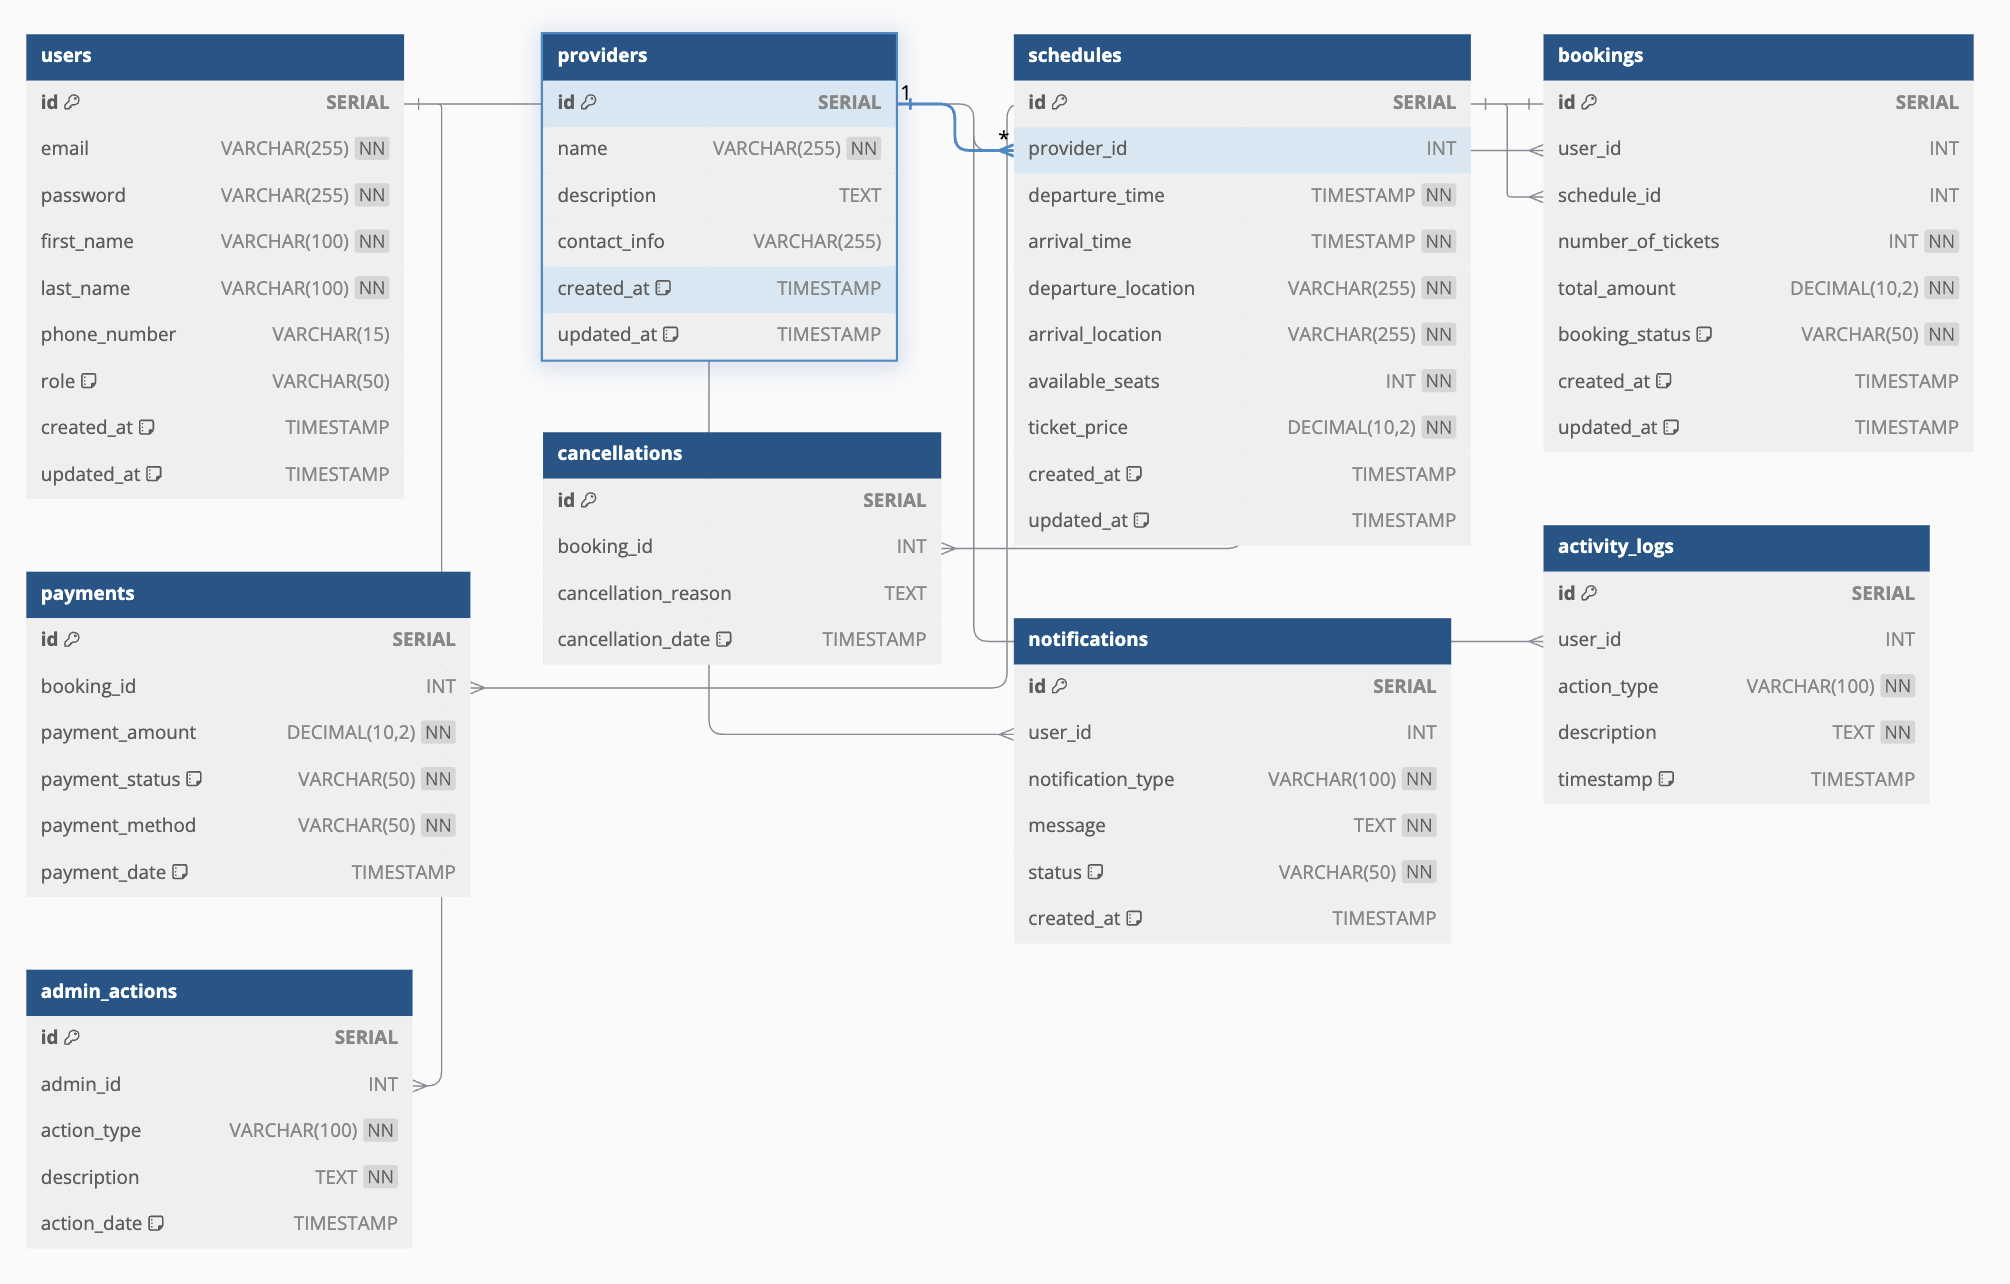
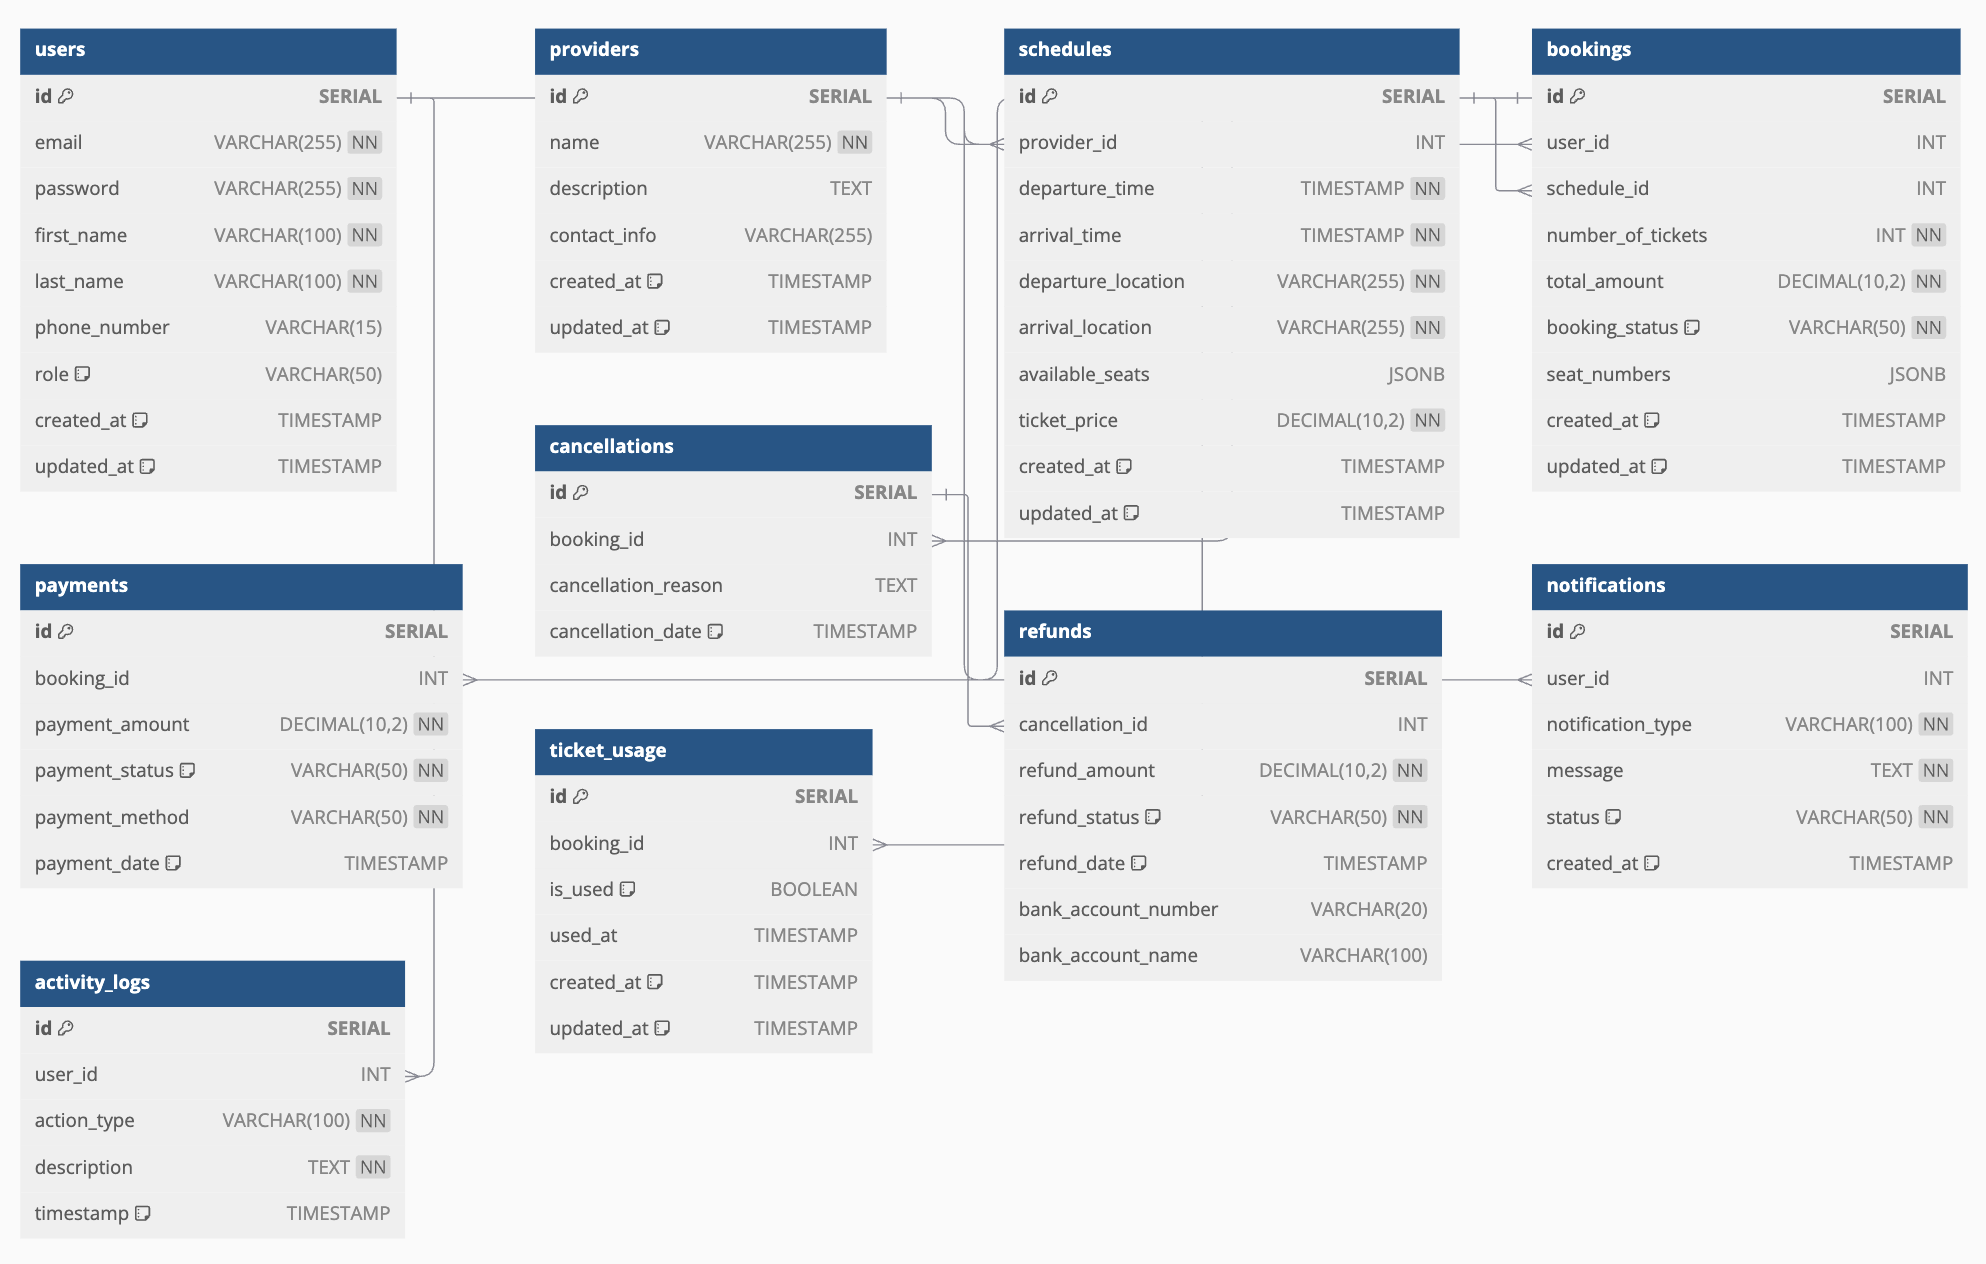
fix: remove duplicate table  then add table for ticket usage and table for refund

diff --git a/entity/refund.go b/entity/refund.go
@@ -1,0 +1,16 @@
+package entity
+
+import "time"
+
+type Refund struct {
+	ID                uint      `json:"id" gorm:"primaryKey"`
+	BookingID         uint      `json:"booking_id" gorm:"not null"`
+	RefundAmount      float64   `json:"refund_amount" gorm:"not null"`
+	RefundStatus      string    `json:"refund_status" gorm:"default:'pending'"`
+	RefundDate        time.Time `json:"refund_date" gorm:"default:CURRENT_TIMESTAMP"`
+	BankAccountNumber string    `json:"bank_account_number"`
+	BankAccountName   string    `json:"bank_account_name"`
+	CreatedAt         time.Time `json:"created_at" gorm:"default:CURRENT_TIMESTAMP"`
+	UpdatedAt         time.Time `json:"updated_at" gorm:"default:CURRENT_TIMESTAMP"`
+	Booking           Booking   `json:"booking" gorm:"foreignKey:BookingID;constraint:OnDelete:CASCADE"`
+}

diff --git a/entity/booking.go b/entity/booking.go
@@ -18,6 +18,8 @@ type Booking struct {
 	Schedule        Schedule       `json:"schedule" gorm:"foreignKey:ScheduleID;constraint:OnDelete:CASCADE"`
 	Payments        []Payment      `json:"payments" gorm:"foreignKey:BookingID;constraint:OnDelete:CASCADE"`
 	Cancellations   []Cancellation `json:"cancellations" gorm:"foreignKey:BookingID;constraint:OnDelete:CASCADE"`
+	TicketUsages    []TicketUsage  `json:"ticket_usages" gorm:"foreignKey:BookingID;constraint:OnDelete:CASCADE"`
+	Refunds         []Refund       `json:"refunds" gorm:"foreignKey:BookingID;constraint:OnDelete:CASCADE"`
 }
 
 type BookingRepository interface {

diff --git a/entity/ticket_usage.go b/entity/ticket_usage.go
@@ -1,0 +1,13 @@
+package entity
+
+import "time"
+
+type TicketUsage struct {
+	ID        uint      `json:"id" gorm:"primaryKey"`
+	BookingID uint      `json:"booking_id" gorm:"not null"`
+	IsUsed    bool      `json:"is_used" gorm:"default:false"`
+	UsedAt    time.Time `json:"used_at"`
+	CreatedAt time.Time `json:"created_at" gorm:"default:CURRENT_TIMESTAMP"`
+	UpdatedAt time.Time `json:"updated_at" gorm:"default:CURRENT_TIMESTAMP"`
+	Booking   Booking   `json:"booking" gorm:"foreignKey:BookingID;constraint:OnDelete:CASCADE"`
+}

diff --git a/entity/user.go b/entity/user.go
@@ -29,7 +29,6 @@ type UserWithRelation struct {
 	Bookings      []Booking      `json:"bookings" gorm:"foreignKey:UserID;constraint:OnDelete:CASCADE"`
 	Notifications []Notification `json:"notifications" gorm:"foreignKey:UserID;constraint:OnDelete:CASCADE"`
 	ActivityLogs  []ActivityLog  `json:"activity_logs" gorm:"foreignKey:UserID;constraint:OnDelete:CASCADE"`
-	AdminActions  []AdminAction  `json:"admin_actions" gorm:"foreignKey:UserID;constraint:OnDelete:CASCADE"`
 }
 
 func (UserWithRelation) TableName() string {

diff --git a/database/migrate.go b/database/migrate.go
@@ -17,7 +17,8 @@ func DBMigrator(db *gorm.DB) error {
 		&entity.Cancellation{},
 		&entity.Notification{},
 		&entity.ActivityLog{},
-		&entity.AdminAction{},
+		&entity.TicketUsage{},
+		&entity.Refund{},
 	}
 	for _, entity := range entities {
 		if err := db.Migrator().DropTable(entity); err != nil {

diff --git a/README.md b/README.md
@@ -27,7 +27,8 @@ make start
 
 ## Preview Table of Contents
 
-![User API Diagram](https://raw.githubusercontent.com/Junx27/ticket-booking/2-readme/doc/assets/erd.png)
+![Desain Database](https://raw.githubusercontent.com/Junx27/ticket-booking/2-readme/doc/assets/erd.png)
+![Desain Database Relational](https://raw.githubusercontent.com/Junx27/ticket-booking/2-readme/doc/assets/relational.png)
 
 # Ticket Booking Documentation
 
